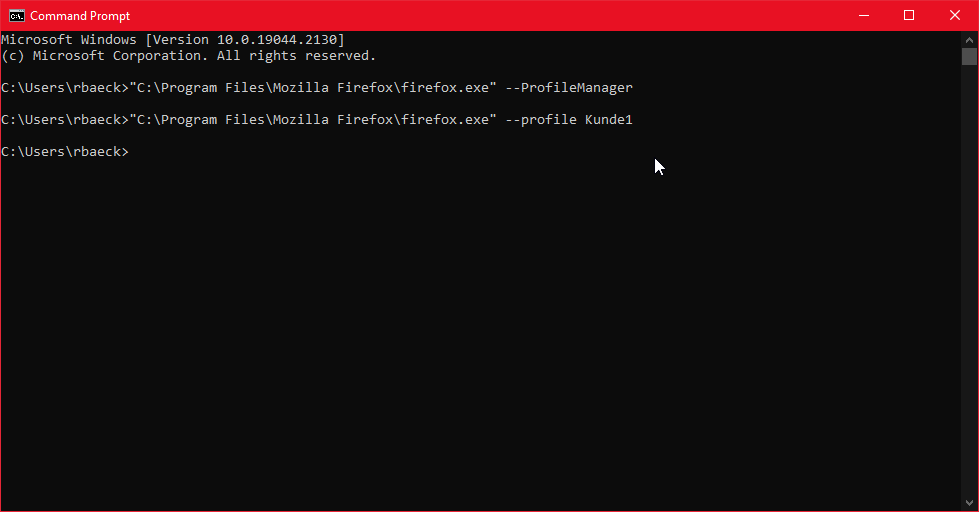
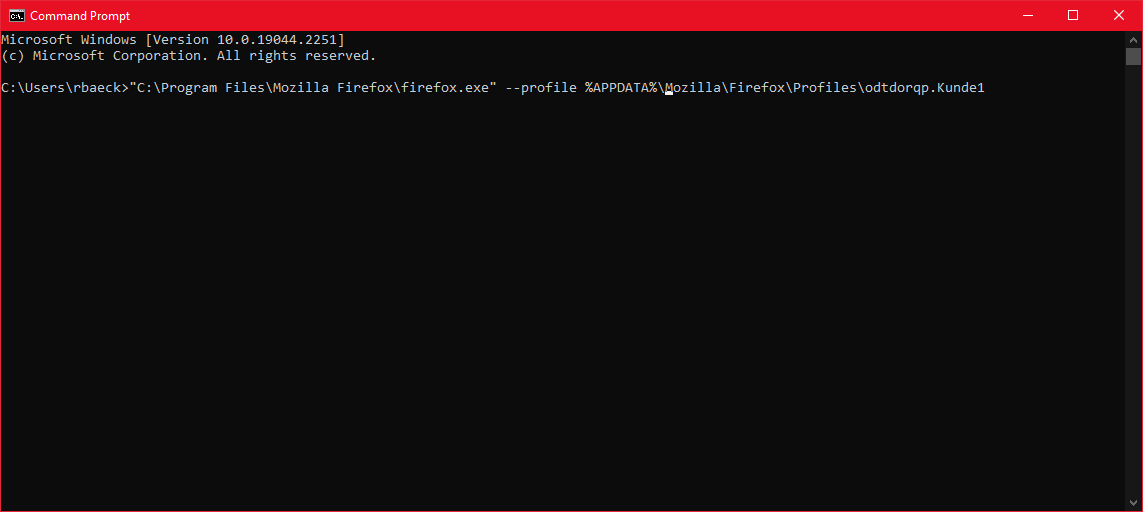
Updates blog entry 2022-11-30.

diff --git a/_posts/2022-11-30-Firefox-Profile-fuer-externe-IT-Berater.md b/_posts/2022-11-30-Firefox-Profile-fuer-externe-IT-Berater.md
@@ -24,11 +24,12 @@ Doch wie bekommt man das hin? Unter Windows 10 ist das sehr einfach. In den folg
 ![Schritt 4: Firefox Profil-Verwalter öffnen](2022-11-30-Firefox-Profile-fuer-externe-IT-Berater/Schritt_04.png)
 5. Im geöffnten Firefox Profil-Verwalter ist nun das Standard-Profil vorausgewählt. Falls sich die Markierung ändert, diese wieder zurückändern. Mit Profil erstellen führt ein Wizard durch die Profilanlage. Dort beim Profilnamen _Kunde1_ eingeben. Mit der alten Belegung _Firefox starten_, damit jedenfalls das bestehende Standard-Profil als Vorbelegung erhalten bleibt.<br>
 ![Schritt 5: Profil anlegen](2022-11-30-Firefox-Profile-fuer-externe-IT-Berater/Schritt_05.png)
-6. Im noch geöffneten Kommandoprompt kann nun mit dem Pfad aus 2. und dem Parameter `--profile Kunde1` das neu angelegte Profil getestet werden. Es muss ein neues Firefox Fenster aufgehen, in dem keine Einstellung oder Lesezeichen des Standardprofils vorhanden ist, da es ja ein neues Profil ist.<br>
+6. Das generierte Profil wird in _%APPDATA%\Mozilla\Firefox\Profiles_ abgelegt. Allerdings ist es wichtig hier zu wissen, dass der ursprüngliche Name aus Schritt 5 nur als Suffix nach einer generierten Zeichenkette verwendet wird. Deshalb am besten zu diesem Pfad mit dem Windows Explorer wechseln, damit der konkrete Profilname herausgefunden werden kann.<br><br>
+Im noch vorher geöffneten Kommandoprompt kann nun mit dem Pfad aus 2. und dem Parameter `--profile %APPDATA%\Mozilla\Firefox\Profiles\XXX.Kunde1` das neu angelegte Profil getestet werden. Es muss ein neues Firefox Fenster aufgehen, in dem keine Einstellung oder Lesezeichen des Standardprofils vorhanden ist, da es ja ein neues Profil ist.<br>
 ![Schritt 6: Neues Profil test](2022-11-30-Firefox-Profile-fuer-externe-IT-Berater/Schritt_06.png)
 7. Nun die Verknüpfung aus 1. kopieren und auf dem Desktop platzieren. Der Name kann natürlich beliebig gewählt werden. Ich hab _Firefox @ Kunde1_ gewählt.<br>
 ![Schritt 7: Verknüpfung für neues Profil anlegen](2022-11-30-Firefox-Profile-fuer-externe-IT-Berater/Schritt_07.png)
-8. Natürlich muss die neue Verknüpfung dahingehend angepasst werden, dass diese auch den neuen Parameter `--profile Kunde1` verwendet. Dies kann im Reiter _Verknüpfung_ erledigt werden.<br>
+8. Natürlich muss die neue Verknüpfung dahingehend angepasst werden, dass diese auch den neuen Parameter `--profile %APPDATA%\Mozilla\Firefox\Profiles\XXX.Kunde1` verwendet. Dies kann im Reiter _Verknüpfung_ erledigt werden.<br>
 ![Schritt 8: Verknüpfung anpassen](2022-11-30-Firefox-Profile-fuer-externe-IT-Berater/Schritt_08.png)
 9. **Bonus:** Mit mehreren Firefox-Instanzen kann man den Überblick verlieren, welche Instanz was beinhaltet. Ich persönlich verwende dazu die Lesezeichen-Leiste. Aber die Instanz selbst kann das auch über _Hilfe_ > _Weitere Informationen zur Fehlerbehebung_ > _Profilordner_ preisgeben.<br>
 ![Schritt 9.1: Profil herausfinden 1](2022-11-30-Firefox-Profile-fuer-externe-IT-Berater/Schritt_09.01.png)<br>
